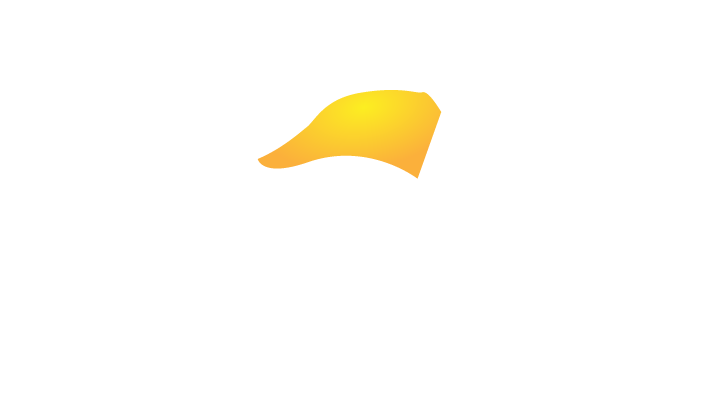
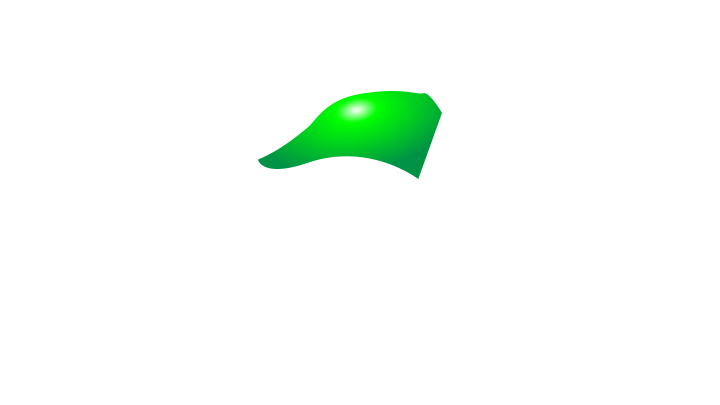
light dark modes

Changed region(s): [[0.3361, 0.2074, 0.6111, 0.4444]]

diff --git a/editor.html b/editor.html
@@ -6,11 +6,21 @@
     <meta name="viewport" content="width=device-width, initial-scale=1.0">
     <title>Editor</title>
     <link rel="stylesheet" href="editor.css">
+    <link rel="stylesheet" href="switch.css">
     <script src="https://ajax.googleapis.com/ajax/libs/jquery/3.6.4/jquery.min.js"></script>
 </head>
 <body>
     <div id="editor">
+        <div class="editorheader">
         <h1>Customize your TH8</h1>
+        <div>
+            <label class="switch">
+            <input type="checkbox" id="darkmode" onclick="darkMode()">
+            <span class="slider round"></span>
+            </label>
+            </div>
+        </div>
+  
         <div class="split">
             <div id="parts">
                 <ul>
@@ -41,12 +51,14 @@
                 </ul>
             </div>
             <div id="preview">
+                <img src="img/preview/headlight.svg" alt="" id="headlight">
                 <img src="img/preview/frame1.png" alt="" id="frame">
                 <img src="img/preview/seat1.png" alt="" id="seat">
                 <img src="img/preview/color.png" alt="" id="colorhue" style="filter: hue-rotate(90deg);">
                 <img src="img/preview/tires1.png" alt="" id="tires">
                 <img src="img/preview/engine1.png" alt="" id="engine">
                 <img src="img/preview/battery1.png" alt="" id="battery">
+                <img src="img/preview/lamp.png" alt="" id="lamp">
             </div>
         </div>
         <div id="options">
@@ -69,6 +81,8 @@
 
     </div>
     <script>
+
+        
         const partsData = {
             'frame': [
                 ['Carbon Fiber', 40000],
@@ -101,6 +115,11 @@
                 ['#000', 400],
                 ],
             }
+        
+        let hue = 0;
+        let saturation = 1;
+        let lightness = 1;
+        
         const init = () => {
             
             let html = '' 
@@ -122,11 +141,21 @@
                     });
                     if (key == 'color'){
                     html+= `
-                      <input type="range" id="colorrange" name="color" min="0" max="360"
-                            oninput="updateHue(this.value)"
-                            onchange="changeHue(this.value)" >
-                    <label for="colorrange">HUE</label>
-                    `
+                      <input type="range" id="colorrange" name="hue" min="0" max="360"
+                            oninput="updateBikeColors('h', this.value)"
+                            onchange="updateBikeColors('h', this.value)" >
+                      <label for="colorrange">H</label>
+
+                      <input type="range" id="colorrange" name="saturation" min="0" max="200" value="100"
+                            oninput="updateBikeColors('s', this.value)"
+                            onchange="updateBikeColors('s', this.value)" >
+                      <label for="colorrange">S</label>
+
+                      <input type="range" id="colorrange" name="lightness" min="0" max="100" value="100"
+                            oninput="updateBikeColors('l', this.value)"
+                            onchange="updateBikeColors('l', this.value)" >
+                      <label for="colorrange">L</label>
+                     `
                     }
 
                 html += '</div></div>'
@@ -136,12 +165,25 @@
             baseElem.innerHTML = html
 
         }
-        const updateHue = (value) => {
+        const changeBikeFilter = () => {
+            document.getElementById('colorhue').setAttribute('style', `filter: hue-rotate(${hue}deg) saturate(${saturation}) brightness(${lightness});`)
+        }
+        const updateBikeColors = (param, value) => {
 
+            if(param == 'h'){
+                 hue = value;
+            }
+            else if(param == 's'){
+                 saturation = value/100;
+            }
+            else if(param == 'l'){
+                 lightness = value/100;
+            }
+           
+            changeBikeFilter()
         }
-        const changeHue = (value) => {
-            document.getElementById('colorhue').setAttribute('style', `filter: hue-rotate(${value}deg)`)
-        }
+
+
         const changeThumbnail = (partName, itemNumber) => {
             const elem = `${partName}_option`
             const thumbnailElem = document.querySelector(`#${elem}>img`)
@@ -174,5 +216,17 @@
         });
         init()
     </script>
+    <script>
+    function darkMode() {
+        var checkBox = document.getElementById("darkmode");
+        var editorElem = document.getElementById("editor");
+        if (checkBox.checked == true){
+           editorElem.className = 'dark'
+        } else {
+             editorElem.className = 'light'
+        }
+        }
+    </script>
+
 </body>
 </html>

diff --git a/editor.css b/editor.css
@@ -1,9 +1,22 @@
 body{
     font-family: Arial, Helvetica, sans-serif;
+    margin: 0;
 }
 .split{
     display: flex;
     gap: 1em;
+}
+.editor{
+    background-color: white;
+    color: black;
+}
+.dark{
+    background-color: #111;
+    color: white;
+}
+.editorheader{
+    display: flex;
+    justify-content: space-between;
 }
 #parts{
     min-width: 200px;
@@ -16,12 +29,13 @@ body{
     position: absolute;
     top: 0;
     left: 0;
+    z-index: 2;
 }
 #seat{
     position: absolute;
     top: 106px;
     left: 130px;
-    z-index: -1;
+    z-index: 1;
 }
 #colorhue{
     position: absolute;
@@ -30,19 +44,38 @@ body{
     position: absolute;
     top: 175px;
     left: 49px;
-    z-index: -1;
+    z-index: 1;
 }
 #engine{
     position: absolute;
     top: 260px;
     left: 290px;
-    z-index: -1;
+    z-index: 1;
 }
 #battery{
     position: absolute;
     top: 166px;
     left: 250px;
-    z-index: -1; 
+    z-index: 1; 
+}
+#lamp{
+    position: absolute;
+    top: 57px;
+    left: 452px;
+    z-index: 1; 
+}
+#headlight{
+    position: absolute;
+    top: 55px;
+    left: 490px;
+    opacity: 0;
+}
+.dark #headlight{
+    opacity: 1;
+    z-index: 999;
+    filter: blur(10px);
+    mix-blend-mode: hard-light;
+    transition: opacity 1s;
 }
 /* options side scroller*/
 #options{

diff --git a/switch.css b/switch.css
@@ -1,0 +1,59 @@
+.switch {
+  position: relative;
+  display: inline-block;
+  width: 60px;
+  height: 34px;
+}
+
+.switch input { 
+  opacity: 0;
+  width: 0;
+  height: 0;
+}
+
+.slider {
+  position: absolute;
+  cursor: pointer;
+  top: 0;
+  left: 0;
+  right: 0;
+  bottom: 0;
+  background-color: #ccc;
+  -webkit-transition: .4s;
+  transition: .4s;
+}
+
+.slider:before {
+  position: absolute;
+  content: "";
+  height: 26px;
+  width: 26px;
+  left: 4px;
+  bottom: 4px;
+  background-color: white;
+  -webkit-transition: .4s;
+  transition: .4s;
+}
+
+input:checked + .slider {
+  background-color: #4b4b4b;
+}
+
+input:focus + .slider {
+  box-shadow: 0 0 1px #4b4b4b;
+}
+
+input:checked + .slider:before {
+  -webkit-transform: translateX(26px);
+  -ms-transform: translateX(26px);
+  transform: translateX(26px);
+}
+
+/* Rounded sliders */
+.slider.round {
+  border-radius: 34px;
+}
+
+.slider.round:before {
+  border-radius: 50%;
+}
